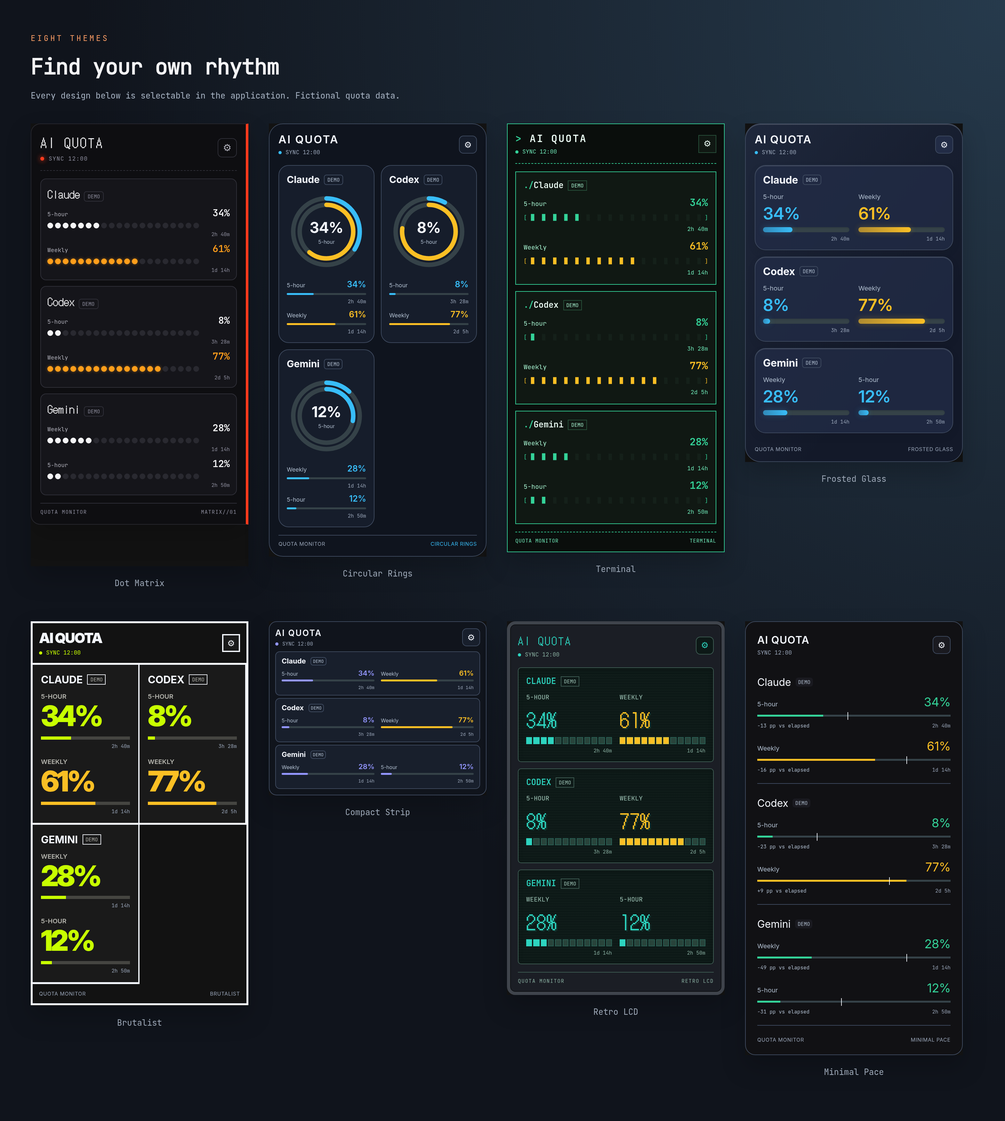
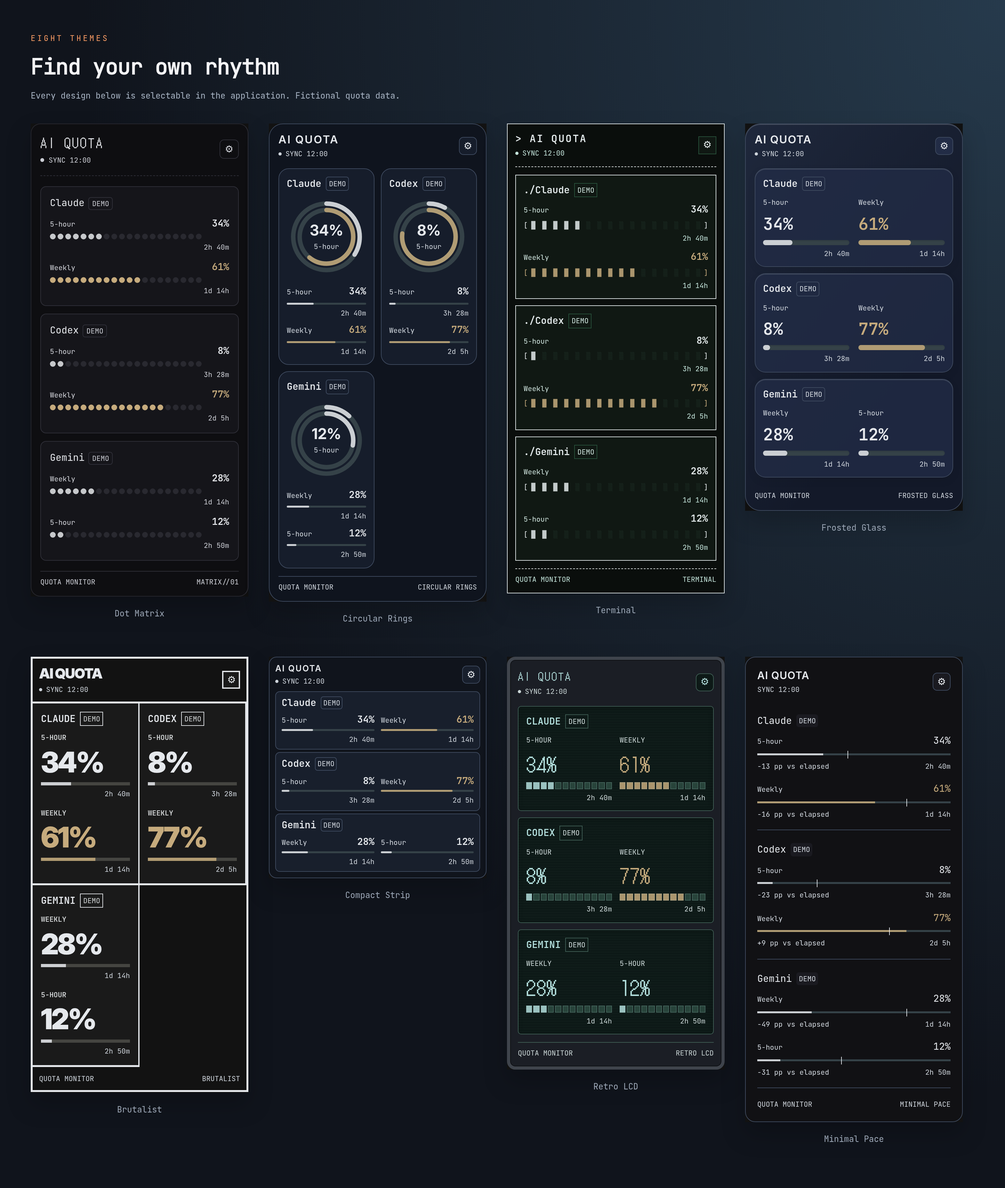
feat(theme): add calm color mode and accent edge setting
Calm is the new default: usage stays neutral below 50% and turns
amber, then red, as it fills. The accent edge is off by default and
can follow the snapped side. Scaling now changes the root font size
instead of CSS zoom, and the smallest text is 11px.

diff --git a/app/src/main.js b/app/src/main.js
@@ -13,7 +13,7 @@ import { listen } from '@tauri-apps/api/event';
 const isSample = new URLSearchParams(location.search).has('sample') || !('__TAURI_INTERNALS__' in window);
 const defaultTaskbar = { enabled: false, providers: ['claude', 'codex', 'gemini'], window: 'session', showBars: false, offsetX: 0, style: 'transparent', theme: 'auto' };
 const systemAppearance = matchMedia('(prefers-color-scheme: light)');
-let settings = { theme: 'dot-matrix', appearance: 'auto', taskbar: { ...defaultTaskbar }, palette: 'signal-orange', accent: null, background: null, widgetOpacity: 100, backgroundOpacity: 94, showExtraWindows: false, fitHeight: true, scale: 100, position: 'Top right' };
+let settings = { theme: 'dot-matrix', appearance: 'auto', colorMode: 'calm', accentEdge: 'off', taskbar: { ...defaultTaskbar }, palette: 'signal-orange', accent: null, background: null, widgetOpacity: 100, backgroundOpacity: 100, showExtraWindows: false, fitHeight: true, scale: 100, position: 'Top right' };
 try { settings.showExtraWindows = localStorage.getItem('showExtraWindows') === 'true'; } catch {}
 let currentSnapshot = null;
 let currentNoData = false;
@@ -24,12 +24,24 @@ document.querySelector('#app').innerHTML = `
     <header class="header" data-tauri-drag-region><div class="title-block"><div class="app-title">AI QUOTA</div><div class="sync-line"><i class="beacon"></i><span id="updated">WAITING FOR DATA</span></div></div><button class="gear" id="gear" aria-label="Settings">⚙</button></header>
     <div class="provider-list" id="providers"></div>
     <footer class="footer"><span>QUOTA MONITOR</span><span>MATRIX//01</span></footer>
-    <section class="settings" id="settings" hidden><header><strong>DISPLAY SETTINGS</strong><button id="close-settings" aria-label="Close">×</button></header><fieldset class="theme-section"><legend>Theme</legend><div class="theme-picker" id="theme-picker"></div></fieldset><label>Appearance<select id="appearance"><option value="auto">Auto</option><option value="light">Light</option><option value="dark">Dark</option></select></label><label>Palette<select id="palette"></select></label><label>Accent color<input id="accent" type="color"></label><label>Background color<input id="background" type="color"></label><label>Widget opacity <output id="widget-out"></output><input id="widget-opacity" type="range" min="20" max="100"></label><label>Background opacity <output id="background-out"></output><input id="background-opacity" type="range" min="0" max="100"></label><label>Scale <output id="scale-out"></output><input id="scale" type="range" min="50" max="300" step="1"></label><div class="scale-presets">${[['Small',75],['Normal',100],['Large',150],['Huge',200]].map(([label,value])=>`<button data-scale="${value}">${label}</button>`).join('')}</div><label>Position<select id="position"><option>Top right</option><option>Bottom right</option><option>Top left</option><option>Bottom left</option><option>Free</option></select></label><label class="toggle-setting">Fit height to content<input id="fit-height" type="checkbox"></label><label class="toggle-setting">Show extra windows<input id="show-extra-windows" type="checkbox"></label><label class="toggle-setting">Start at login<input id="start-at-login" type="checkbox" disabled></label><p id="autostart-status" class="setting-note" role="status" hidden></p><section id="linux-settings" hidden><fieldset class="desktop-settings" id="desktop-layer" hidden><legend>Desktop layer</legend><label>Layer<select id="linux-layer"><option value="top">Above windows</option><option value="bottom">On desktop</option></select></label><label>Margin <output id="linux-margin-out"></output><input id="linux-margin" type="range" min="0" max="64" step="1"></label><label>Monitor<select id="linux-monitor"><option value="">Auto</option></select></label></fieldset><p id="desktop-layer-unavailable" class="setting-note" hidden>Desktop layer controls require layer-shell support. Use your desktop's panel integration for a fixed position.</p></section><fieldset class="taskbar-settings" id="taskbar-settings"><legend>Taskbar strip</legend><label class="toggle-setting">Enable taskbar strip<input id="taskbar-enabled" type="checkbox"></label><div class="taskbar-providers"><label class="toggle-setting">Claude<input type="checkbox" data-taskbar-provider="claude"></label><label class="toggle-setting">Codex<input type="checkbox" data-taskbar-provider="codex"></label><label class="toggle-setting">Gemini<input type="checkbox" data-taskbar-provider="gemini"></label><label class="toggle-setting">Copilot<input type="checkbox" data-taskbar-provider="copilot"></label></div><label>Style<select id="taskbar-style"><option value="transparent">Transparent</option><option value="chip">Chip</option></select></label><label>Theme<select id="taskbar-theme"><option value="auto">Auto</option><option value="light">Light</option><option value="dark">Dark</option></select></label><label>Quota window<select id="taskbar-window"><option value="session">Session</option><option value="weekly">Weekly</option><option value="both">Both</option></select></label><label class="toggle-setting">Show mini bars<input id="taskbar-bars" type="checkbox"></label></fieldset></section>
+    <section class="settings" id="settings" hidden><header><strong>DISPLAY SETTINGS</strong><button id="close-settings" aria-label="Close">×</button></header><fieldset class="theme-section"><legend>Theme</legend><div class="theme-picker" id="theme-picker"></div></fieldset><fieldset class="look-section"><legend>Look</legend><label>Color mode<select id="color-mode"><option value="calm">Calm</option><option value="vivid">Vivid</option></select></label><label>Accent edge<select id="accent-edge"><option value="off">Off</option><option value="auto">Auto</option><option value="left">Left</option><option value="right">Right</option></select></label></fieldset><label>Appearance<select id="appearance"><option value="auto">Auto</option><option value="light">Light</option><option value="dark">Dark</option></select></label><label>Palette<select id="palette"></select></label><label>Accent color<input id="accent" type="color"></label><label>Background color<input id="background" type="color"></label><label>Widget opacity <output id="widget-out"></output><input id="widget-opacity" type="range" min="20" max="100"></label><label>Background opacity <output id="background-out"></output><input id="background-opacity" type="range" min="0" max="100"></label><label>Scale <output id="scale-out"></output><input id="scale" type="range" min="50" max="300" step="1"></label><div class="scale-presets">${[['Small',75],['Normal',100],['Large',150],['Huge',200]].map(([label,value])=>`<button data-scale="${value}">${label}</button>`).join('')}</div><label>Position<select id="position"><option>Top right</option><option>Bottom right</option><option>Top left</option><option>Bottom left</option><option>Free</option></select></label><label class="toggle-setting">Fit height to content<input id="fit-height" type="checkbox"></label><label class="toggle-setting">Show extra windows<input id="show-extra-windows" type="checkbox"></label><label class="toggle-setting">Start at login<input id="start-at-login" type="checkbox" disabled></label><p id="autostart-status" class="setting-note" role="status" hidden></p><section id="linux-settings" hidden><fieldset class="desktop-settings" id="desktop-layer" hidden><legend>Desktop layer</legend><label>Layer<select id="linux-layer"><option value="top">Above windows</option><option value="bottom">On desktop</option></select></label><label>Margin <output id="linux-margin-out"></output><input id="linux-margin" type="range" min="0" max="64" step="1"></label><label>Monitor<select id="linux-monitor"><option value="">Auto</option></select></label></fieldset><p id="desktop-layer-unavailable" class="setting-note" hidden>Desktop layer controls require layer-shell support. Use your desktop's panel integration for a fixed position.</p></section><fieldset class="taskbar-settings" id="taskbar-settings"><legend>Taskbar strip</legend><label class="toggle-setting">Enable taskbar strip<input id="taskbar-enabled" type="checkbox"></label><div class="taskbar-providers"><label class="toggle-setting">Claude<input type="checkbox" data-taskbar-provider="claude"></label><label class="toggle-setting">Codex<input type="checkbox" data-taskbar-provider="codex"></label><label class="toggle-setting">Gemini<input type="checkbox" data-taskbar-provider="gemini"></label><label class="toggle-setting">Copilot<input type="checkbox" data-taskbar-provider="copilot"></label></div><label>Style<select id="taskbar-style"><option value="transparent">Transparent</option><option value="chip">Chip</option></select></label><label>Theme<select id="taskbar-theme"><option value="auto">Auto</option><option value="light">Light</option><option value="dark">Dark</option></select></label><label>Quota window<select id="taskbar-window"><option value="session">Session</option><option value="weekly">Weekly</option><option value="both">Both</option></select></label><label class="toggle-setting">Show mini bars<input id="taskbar-bars" type="checkbox"></label></fieldset></section>
     <nav class="context-menu" id="context-menu" hidden><button id="refresh">Refresh now</button><button id="menu-settings">Settings</button></nav>
     <div class="toast" id="toast" hidden></div>
   </main>`;
 
 const $ = (selector) => document.querySelector(selector);
+// Palette files use opaque hex colors. Correct text against its actual surface.
+const rgb = hex => hex.replace('#', '').match(/../g).slice(0, 3).map(n => parseInt(n, 16));
+function mix(a, b, weight) { return '#' + rgb(a).map((v, i) => Math.round(v * weight + rgb(b)[i] * (1 - weight)).toString(16).padStart(2, '0')).join(''); }
+function luminance(hex) { return rgb(hex).map(v => { v /= 255; return v <= .04045 ? v / 12.92 : ((v + .055) / 1.055) ** 2.4; }).reduce((sum, v, i) => sum + v * [.2126, .7152, .0722][i], 0); }
+function readable(color, background) {
+  const bg = luminance(background), target = bg > .179 ? '#000000' : '#ffffff';
+  for (let i = 0; i <= 100; i++) {
+    const candidate = mix(color, target, 1 - i / 100), value = luminance(candidate);
+    if ((Math.max(value, bg) + .05) / (Math.min(value, bg) + .05) >= 5) return candidate;
+  }
+  return target;
+}
 function applySettings() {
   if (!theme) return;
   const selected = theme.palettes[settings.palette] || Object.values(theme.palettes)[0];
@@ -39,10 +51,35 @@ function applySettings() {
   if (settings.accent) document.documentElement.style.setProperty('--accent', settings.accent);
   if (settings.background) document.documentElement.style.setProperty('--bgWidget', settings.background);
   document.documentElement.dataset.mode = palette.mode;
+  settings.colorMode = ['calm', 'vivid'].includes(settings.colorMode) ? settings.colorMode : 'calm';
+  settings.accentEdge = ['off', 'auto', 'left', 'right'].includes(settings.accentEdge) ? settings.accentEdge : 'off';
+  document.documentElement.dataset.colorMode = settings.colorMode;
+  document.documentElement.dataset.accentEdge = settings.accentEdge === 'auto'
+    ? (settings.position.endsWith('left') ? 'left' : settings.position.endsWith('right') ? 'right' : 'off') : settings.accentEdge;
+  const card = palette.bgCard, background = settings.background || palette.bgWidget;
+  const neutral = mode === 'light' ? '#292d32' : '#e0e3e7';
+  const foreground = settings.colorMode === 'calm' ? mix(palette.textPrimary, neutral, .25) : palette.textPrimary;
+  const primary = readable(foreground, card);
+  const calmText = color => settings.colorMode === 'calm' ? mix(color, neutral, .25) : color;
+  for (const [key, value] of Object.entries({
+    textPrimary: primary,
+    textSecondary: readable(calmText(palette.textSecondary), card),
+    textMuted: readable(calmText(palette.textMuted), card),
+    chromeText: readable(foreground, background),
+    chromeSecondary: readable(calmText(palette.textMuted), background),
+  })) document.documentElement.style.setProperty(`--${key}`, value);
+  if (settings.colorMode === 'calm') {
+    document.documentElement.style.setProperty('--severityNormal', primary);
+    document.documentElement.style.setProperty('--severityWarning', readable(mode === 'light' ? '#805c29' : '#c6ab7d', card));
+    document.documentElement.style.setProperty('--severityDanger', readable(mode === 'light' ? '#99494b' : '#d29898', card));
+  }
+  $('#color-mode').value = settings.colorMode;
+  $('#accent-edge').value = settings.accentEdge;
+  if (currentSnapshot) draw(currentSnapshot, currentNoData);
   document.documentElement.style.setProperty('--widget-opacity', settings.widgetOpacity / 100);
   document.documentElement.style.setProperty('--background-opacity', settings.backgroundOpacity / 100);
   document.documentElement.style.setProperty('--ui-scale', settings.scale / 100);
-  document.querySelector('#app').style.zoom = String(settings.scale / 100);
+  document.documentElement.style.fontSize = `${16 * settings.scale / 100}px`;
   document.documentElement.classList.toggle('fit-height', Boolean(settings.fitHeight)); lastFitHeight = 0;
   settings.taskbar = { ...defaultTaskbar, ...settings.taskbar };
   if (desktopInfo?.platform === 'linux') {
@@ -94,7 +131,7 @@ function currentSample() {
   const now = Date.now();
   return { ...sample, generated_at: new Date(now).toISOString(), providers: sample.providers.map(provider => ({ ...provider, windows: (provider.windows || []).map(window => ({ ...window, resets_at: Number.isFinite(window.resets_in_minutes) ? new Date(now + window.resets_in_minutes * 60000).toISOString() : null })) })) };
 }
-async function persist() { if (!isSample) try { localStorage.setItem('widgetTheme', settings.theme); } catch {} if (!isSample) try { await invoke('save_settings', { settings }); } catch (error) { showToast(String(error)); } }
+async function persist() { if (!isSample) try { localStorage.setItem('widgetTheme', settings.theme); localStorage.setItem('widgetLook', JSON.stringify({ colorMode: settings.colorMode, accentEdge: settings.accentEdge })); } catch {} if (!isSample) try { await invoke('save_settings', { settings }); } catch (error) { showToast(String(error)); } }
 function showToast(message) { const el = $('#toast'); el.textContent = message; el.hidden = false; setTimeout(() => { el.hidden = true; }, 3200); }
 
 const previews = { 'dot-matrix': '••••••', 'circular-rings': '◉ ◎', terminal: '[▓▓░░]', 'frosted-glass': '▰ ▰', brutalist: '84%', 'compact-strip': '━ ━ ━', 'retro-lcd': '▮▮▮▯▯', 'minimal-pace': '──┊──' };
@@ -125,6 +162,7 @@ async function activateTheme(id) {
   requestFit();
 }
 systemAppearance.addEventListener('change', () => { if (settings.appearance === 'auto') applySettings(); });
+for (const [id, key] of [['color-mode', 'colorMode'], ['accent-edge', 'accentEdge']]) $(`#${id}`).onchange = async event => { settings[key] = event.target.value; applySettings(); await persist(); };
 $('#appearance').onchange = async event => { settings.appearance = event.target.value; applySettings(); await persist(); };
 for (const key of ['style', 'theme']) $(`#taskbar-${key}`).onchange = async event => { settings.taskbar[key] = event.target.value; await persist(); };
 $('#taskbar-enabled').onchange = async event => { settings.taskbar.enabled = event.target.checked; await persist(); };
@@ -184,7 +222,7 @@ $('#show-extra-windows').onchange = async (event) => { settings.showExtraWindows
 $('#scale').oninput = async event => { settings.scale = Number(event.target.value); applySettings(); requestFit(); await persist(); };
 document.querySelectorAll('[data-scale]').forEach(button => button.onclick = async () => { settings.scale = Number(button.dataset.scale); applySettings(); requestFit(); await persist(); });
 $('#fit-height').onchange = async event => { settings.fitHeight = event.target.checked; applySettings(); if (settings.fitHeight) requestFit(); await persist(); };
-$('#position').onchange = async event => { settings.position = event.target.value; if (!isSample) try { await invoke('snap_window', { corner: settings.position }); } catch (error) { showToast(String(error)); } await persist(); };
+$('#position').onchange = async event => { settings.position = event.target.value; applySettings(); if (!isSample) try { await invoke('snap_window', { corner: settings.position }); } catch (error) { showToast(String(error)); } await persist(); };
 $('#widget').addEventListener('contextmenu', event => { event.preventDefault(); $('#context-menu').hidden = false; $('#context-menu').style.left = `${event.clientX}px`; $('#context-menu').style.top = `${event.clientY}px`; });
 document.addEventListener('click', event => { if (!event.target.closest('#context-menu')) $('#context-menu').hidden = true; });
 $('#refresh').onclick = async () => { if (isSample) return draw(currentSample()); try { await invoke('refresh_now'); } catch (error) { showToast(String(error)); } };
@@ -199,7 +237,7 @@ else {
     settings = { ...settings, ...(await invoke('load_settings')) };
     // Older native settings structs discard unknown fields; keep the theme in
     // the webview store until the native schema includes it.
-    try { settings.theme = localStorage.getItem('widgetTheme') || settings.theme; } catch {}
+    try { settings.theme = localStorage.getItem('widgetTheme') || settings.theme; Object.assign(settings, JSON.parse(localStorage.getItem('widgetLook') || '{}')); } catch {}
     const overrides = { accent: settings.accent, background: settings.background };
     await activateTheme(settings.theme); Object.assign(settings, overrides); applySettings();
     await loadDesktopSettings();

diff --git a/app/src/themes/shared/chrome.css b/app/src/themes/shared/chrome.css
@@ -3,20 +3,20 @@
 @font-face { font-family: JetBrainsMono; src: url('../../fonts/jetbrains-mono-latin-400-normal.woff2') format('woff2'); font-weight: 400; font-display: swap; }
 
 @font-face { font-family: JetBrainsMono; src: url('../../fonts/jetbrains-mono-latin-600-normal.woff2') format('woff2'); font-weight: 600; font-display: swap; }
-.settings { position: absolute; z-index: 5; inset: 8px; display: flex; flex-direction: column; gap: 13px; padding: 14px; overflow: auto; background: var(--bgWidget); border: 1px solid var(--border); border-radius: 10px; box-shadow: 0 12px 30px #0008; }
+.settings { position: absolute; z-index: 5; inset: 0.5rem; display: flex; flex-direction: column; gap: 0.8125rem; padding: 0.875rem; overflow: auto; background: var(--bgWidget); border: 0.0625rem solid var(--border); border-radius: 0.625rem; box-shadow: 0 0.75rem 1.875rem #0008; }
 .settings[hidden] { display: none; }
-.settings header { display: flex; justify-content: space-between; font: 13px DotGothic16, monospace; }
-.settings header button { color: var(--textPrimary); background: none; border: 0; font-size: 20px; }
-.settings label { display: grid; grid-template-columns: 1fr auto; gap: 8px; color: var(--textSecondary); font-size: 10px; }
-.settings select { grid-column: 1 / -1; width: 100%; padding: 8px; color: var(--textPrimary); background: var(--bgCard); border: 1px solid var(--border); }
-.settings input[type=color] { width: 42px; height: 24px; border: 0; background: transparent; }
+.settings header { display: flex; justify-content: space-between; font: 0.8125rem DotGothic16, monospace; }
+.settings header button { color: var(--textPrimary); background: none; border: 0; font-size: 1.25rem; }
+.settings label { display: grid; grid-template-columns: 1fr auto; gap: 0.5rem; color: var(--textSecondary); font-size: 0.625rem; }
+.settings select { grid-column: 1 / -1; width: 100%; padding: 0.5rem; color: var(--textPrimary); background: var(--bgCard); border: 0.0625rem solid var(--border); }
+.settings input[type=color] { width: 2.625rem; height: 1.5rem; border: 0; background: transparent; }
 .settings input[type=range] { grid-column: 1 / -1; width: 100%; accent-color: var(--accent); }
 .settings output { color: var(--textPrimary); }
-.context-menu { position: fixed; z-index: 8; display: grid; min-width: 130px; padding: 4px; background: var(--bgCard); border: 1px solid var(--border); border-radius: 7px; box-shadow: 0 6px 18px #0008; }
+.context-menu { position: fixed; z-index: 8; display: grid; min-width: 8.125rem; padding: 0.25rem; background: var(--bgCard); border: 0.0625rem solid var(--border); border-radius: 0.4375rem; box-shadow: 0 0.375rem 1.125rem #0008; }
 .context-menu[hidden] { display: none; }
-.context-menu button { padding: 8px; color: var(--textPrimary); text-align: left; background: transparent; border: 0; cursor: pointer; }
+.context-menu button { padding: 0.5rem; color: var(--textPrimary); text-align: left; background: transparent; border: 0; cursor: pointer; }
 .context-menu button:hover { background: color-mix(in srgb, var(--accent) 20%, transparent); }
-.toast { position: absolute; right: 12px; bottom: 30px; left: 12px; padding: 8px; color: var(--textPrimary); background: var(--bgCard); border: 1px solid var(--border); border-radius: 6px; font-size: 9px; }
+.toast { position: absolute; right: 0.75rem; bottom: 1.875rem; left: 0.75rem; padding: 0.5rem; color: var(--textPrimary); background: var(--bgCard); border: 0.0625rem solid var(--border); border-radius: 0.375rem; font-size: 0.5625rem; }
 .toast[hidden] { display: none; }
 
 
@@ -24,15 +24,15 @@
 .settings input[type=checkbox] { accent-color: var(--accent); }
 
 
-.settings .scale-presets { display: flex; gap: 5px; }
-.scale-presets button { flex: 1; padding: 6px 2px; color: var(--textSecondary); background: var(--bgCard); border: 1px solid var(--border); border-radius: 5px; font: 8px JetBrainsMono, monospace; cursor: pointer; }
+.settings .scale-presets { display: flex; gap: 0.3125rem; }
+.scale-presets button { flex: 1; padding: 0.375rem 0.125rem; color: var(--textSecondary); background: var(--bgCard); border: 0.0625rem solid var(--border); border-radius: 0.3125rem; font: 0.5rem JetBrainsMono, monospace; cursor: pointer; }
 
 
-.taskbar-settings { margin: 12px 0 0; padding: 10px; border: 1px solid var(--border); min-width: 0; }
+.taskbar-settings { margin: 0.75rem 0 0; padding: 0.625rem; border: 0.0625rem solid var(--border); min-width: 0; }
 
-.taskbar-settings legend { padding: 0 5px; font-size: 11px; }
+.taskbar-settings legend { padding: 0 0.3125rem; font-size: 0.6875rem; }
 
-.taskbar-providers { display: grid; grid-template-columns: 1fr 1fr; gap: 0 10px; }
+.taskbar-providers { display: grid; grid-template-columns: 1fr 1fr; gap: 0 0.625rem; }
 
 
 /* Native controls and every scrollable surface follow the resolved appearance. */
@@ -40,29 +40,29 @@
 
 :root[data-mode="dark"] { color-scheme: dark; }
 
-::-webkit-scrollbar { width: 6px; height: 6px; }
+::-webkit-scrollbar { width: 0.375rem; height: 0.375rem; }
 
 ::-webkit-scrollbar-track { background: var(--bgCard); }
 
-::-webkit-scrollbar-thumb { background: var(--border); border-radius: 4px; }
+::-webkit-scrollbar-thumb { background: var(--border); border-radius: 0.25rem; }
 
 :root[data-mode="light"] .dot-bar i.on { box-shadow: none; }
 
-:root[data-mode="light"] .settings, :root[data-mode="light"] .context-menu { box-shadow: 0 6px 18px #0002; }
+:root[data-mode="light"] .settings, :root[data-mode="light"] .context-menu { box-shadow: 0 0.375rem 1.125rem #0002; }
 
 
-.desktop-settings { display: grid; gap: 12px; min-width: 0; margin: 0; padding: 10px; border: 1px solid var(--border); border-radius: 6px; }
+.desktop-settings { display: grid; gap: 0.75rem; min-width: 0; margin: 0; padding: 0.625rem; border: 0.0625rem solid var(--border); border-radius: 0.375rem; }
 
-.desktop-settings legend { padding: 0 5px; color: var(--textPrimary); font-size: 11px; }
+.desktop-settings legend { padding: 0 0.3125rem; color: var(--textPrimary); font-size: 0.6875rem; }
 
-.setting-note { margin: 0; color: var(--textSecondary); font-size: 10px; line-height: 1.6; }
+.setting-note { margin: 0; color: var(--textSecondary); font-size: 0.625rem; line-height: 1.6; }
 
 .settings [hidden] { display: none !important; }
 
 .settings input:disabled { opacity: .5; cursor: not-allowed; }
-.theme-picker {display:grid;grid-template-columns:repeat(2,minmax(0,1fr));gap:6px;min-width:0}.theme-picker button {min-width:0;padding:7px 4px;background:var(--bgCard);color:var(--textPrimary);border:1px solid var(--border);border-radius:5px;font:9px JetBrainsMono,monospace;cursor:pointer}.theme-picker button[aria-pressed=true] {outline:2px solid var(--accent);outline-offset:-2px}.theme-preview {display:block;font-size:19px;line-height:30px;color:var(--accent);letter-spacing:2px}.theme-section {border:0;margin:0;padding:0;min-width:0}.theme-section legend {font-size:11px;margin-bottom:8px}.settings>* {flex-shrink:0}.settings header strong {font:600 11px JetBrainsMono,monospace}.settings .theme-picker button:focus-visible {outline:2px solid var(--accent)}
+.theme-picker {display:grid;grid-template-columns:repeat(2,minmax(0,1fr));gap:0.375rem;min-width:0}.theme-picker button {min-width:0;padding:0.4375rem 0.25rem;background:var(--bgCard);color:var(--textPrimary);border:0.0625rem solid var(--border);border-radius:0.3125rem;font:0.5625rem JetBrainsMono,monospace;cursor:pointer}.theme-picker button[aria-pressed=true] {outline:0.125rem solid var(--accent);outline-offset:-0.125rem}.theme-preview {display:block;font-size:1.1875rem;line-height:1.875rem;color:var(--accent);letter-spacing:0.125rem}.theme-section {border:0;margin:0;padding:0;min-width:0}.theme-section legend {font-size:0.6875rem;margin-bottom:0.5rem}.settings>* {flex-shrink:0}.settings header strong {font:600 0.6875rem JetBrainsMono,monospace}.settings .theme-picker button:focus-visible {outline:0.125rem solid var(--accent)}
 
 @font-face {font-family:Inter;src:url('../../fonts/inter-variable.ttf') format('truetype');font-weight:100 900;font-display:swap}
 /* A short strip must expand while its scrollable settings are open. */
-.fit-height .widget:has(.settings:not([hidden])){min-height:540px}
-.theme-picker [data-theme=circular-rings] .theme-preview{color:#38bdf8}.theme-picker [data-theme=terminal] .theme-preview{color:#34d399;font-size:14px}.theme-picker [data-theme=frosted-glass] .theme-preview{color:#38bdf8;text-shadow:0 0 8px #38bdf860}.theme-picker [data-theme=brutalist] .theme-preview{font-family:Inter,sans-serif;font-weight:900;color:#9abf00}.theme-picker [data-theme=compact-strip] .theme-preview{color:#9396ff;font-size:14px}.theme-picker [data-theme=retro-lcd] .theme-preview{color:#1aa592;font-family:DotGothic16,monospace}.theme-picker [data-theme=minimal-pace] .theme-preview{color:#13946f;font-weight:400}
+.fit-height .widget:has(.settings:not([hidden])){min-height:33.75rem}
+.theme-picker [data-theme=circular-rings] .theme-preview{color:#38bdf8}.theme-picker [data-theme=terminal] .theme-preview{color:#34d399;font-size:0.875rem}.theme-picker [data-theme=frosted-glass] .theme-preview{color:#38bdf8;text-shadow:0 0 0.5rem #38bdf860}.theme-picker [data-theme=brutalist] .theme-preview{font-family:Inter,sans-serif;font-weight:900;color:#9abf00}.theme-picker [data-theme=compact-strip] .theme-preview{color:#9396ff;font-size:0.875rem}.theme-picker [data-theme=retro-lcd] .theme-preview{color:#1aa592;font-family:DotGothic16,monospace}.theme-picker [data-theme=minimal-pace] .theme-preview{color:#13946f;font-weight:400}

diff --git a/app/src/themes/shared/readability.css b/app/src/themes/shared/readability.css
@@ -1,0 +1,80 @@
+/* Shared after theme CSS: readable labels without flattening theme layouts. */
+:root .widget .sync-line, :root .widget .plan, :root .widget .status-badge,
+:root .widget .window-top, :root .widget .window-bottom, :root .widget .reset,
+:root .widget .pace, :root .widget .balance-row, :root .widget .empty-window,
+:root .widget .footer, :root .widget .no-data small, :root .widget .ring-center small,
+:root .widget .compact-line, :root .widget .compact-api, :root .widget .xs-name,
+:root .widget .xs-content small, :root .widget .settings label,
+:root .widget .settings legend, :root .widget .settings button,
+:root .widget .settings header strong, :root .widget .setting-note, :root .widget .toast {
+  font-family: JetBrainsMono, monospace;
+  font-size: 11px;
+  letter-spacing: 0;
+  line-height: 1.5;
+}
+:root .widget .provider-heading h2 {font-family:JetBrainsMono,monospace;font-size:15px;white-space:normal;overflow-wrap:anywhere}
+:root .widget .window-top b, :root .widget .ring-center strong,
+:root .widget .compact-line b, :root .widget .xs-content b {font-size:max(15px,1em)}
+:root[data-theme=brutalist] .window-top b {font:900 clamp(34px,13cqw,72px)/1.15 Inter,sans-serif;letter-spacing:-2px}
+:root[data-theme=frosted-glass] .window-top b {font-size:26px}
+:root[data-theme=retro-lcd] .window-top b {font-size:30px}
+:root[data-theme=circular-rings] .ring-center strong {font-size:23px}
+:root .widget .settings select, :root .widget .context-menu button {font:11px/1.5 JetBrainsMono,monospace}
+:root .widget .header, :root .widget .app-title {color:var(--chromeText)}
+:root .widget .sync-line, :root .widget .footer {color:var(--chromeSecondary)}
+:root .widget .settings {color:var(--chromeText)}
+:root .widget .settings label, :root .widget .settings legend, :root .widget .setting-note {color:var(--chromeSecondary)}
+:root[data-theme=retro-lcd] .widget .settings {background:var(--bgWidget)}
+:root .look-section {display:grid;gap:12px;min-width:0;margin:0;padding:10px;border:1px solid var(--border);border-radius:6px}
+/* The decorative edge is independent of structural borders (e.g. Brutalist). */
+:root[data-theme=dot-matrix] .widget {border-right:1px solid var(--border);border-radius:15px}
+:root[data-accent-edge=left] .widget::after, :root[data-accent-edge=right] .widget::after {
+  content:'';position:absolute;z-index:4;pointer-events:none;top:12px;bottom:12px;width:2px;
+  background:color-mix(in srgb,var(--accent) 25%,var(--chromeText));opacity:.55;border-radius:2px;
+}
+:root[data-accent-edge=left] .widget::after {left:0}
+:root[data-accent-edge=right] .widget::after {right:0}
+/* Calm keeps each design's geometry and surface colors, with threshold-only ink. */
+:root[data-color-mode=calm] .widget {--accent:var(--textPrimary)}
+:root[data-color-mode=calm] .beacon {background:var(--chromeSecondary);box-shadow:none}
+:root[data-color-mode=calm] .dot-bar i.on {box-shadow:none}
+:root[data-color-mode=calm] .dot-bar i.on[data-severity=normal],
+:root[data-color-mode=calm] .meter>i, :root[data-color-mode=calm] .segments i.on {opacity:.85}
+:root[data-color-mode=calm] .meter>i {background:var(--level);box-shadow:none}
+:root[data-color-mode=calm] .ring-value {opacity:.85}
+:root[data-color-mode=calm] .window-top b {text-shadow:none}
+:root[data-color-mode=calm] .theme-preview {color:var(--textPrimary);text-shadow:none}
+:root[data-color-mode=calm] .provider-heading h2::before, :root[data-color-mode=calm] .app-title::before {color:inherit}
+:root[data-color-mode=calm] .footer span:last-child {color:inherit}
+:root .provider-heading {flex-wrap:wrap}
+:root .window-top {gap:5px}
+:root .dot-bar i {flex:1;min-width:0;max-width:var(--dot)}
+:root .xs-content b, :root .xs-content small {flex:none}
+:root .xs-content .dot-bar {min-width:0;gap:1px}
+:root .compact-line {grid-template-columns:22px minmax(0,1fr) 38px}
+@container (max-width:219px) {
+  :root .widget .xs-content {flex-wrap:wrap;min-height:24px}
+  :root .widget .xs-content small {font-size:15px}
+  :root[data-theme=compact-strip] .windows, :root[data-theme=brutalist] .windows {grid-template-columns:1fr}
+  :root[data-theme=circular-rings] .provider-card {display:block}
+  :root[data-theme=circular-rings] .ring-display {width:100px;margin:0 auto 8px}
+  :root[data-theme=circular-rings] .ring-center small {display:block}
+  :root .widget .footer {flex-wrap:wrap}
+  :root .widget .scale-presets {flex-wrap:wrap}
+  :root .widget .scale-presets button {flex-basis:40%}
+}
+:root .widget .gear {font:15px/1 JetBrainsMono,monospace}
+:root .segments.terminal {font-size:11px}
+:root[data-theme=circular-rings] .provider-list {grid-template-columns:repeat(auto-fit,minmax(min(100%,150px),1fr))}
+:root[data-color-mode=calm] [data-severity=warning] {color:var(--severityWarning)}
+:root[data-color-mode=calm] [data-severity=danger] {color:var(--severityDanger)}
+@container (min-width:220px) and (max-width:320px) {
+  :root[data-theme=dot-matrix] .provider-card:not(.api-balance) {grid-template-columns:65px minmax(0,1fr)}
+  :root[data-theme=dot-matrix] .provider-heading h2 {font-size:15px;overflow-wrap:normal}
+}
+:root[data-theme=brutalist] .provider-list {grid-template-columns:repeat(auto-fit,minmax(min(100%,155px),1fr))}
+@container (max-width:219px) {
+  :root[data-theme=retro-lcd] .window-top {flex-wrap:wrap}
+  :root[data-theme=retro-lcd] .window-top>span {flex-basis:100%}
+}
+:root .widget .balance-row b, :root .widget .compact-api {font-size:15px}

diff --git a/app/src/themes/dot-matrix/render.js b/app/src/themes/dot-matrix/render.js
@@ -2,7 +2,10 @@ const hiddenStates = new Set(['DISABLED', 'NOT_INSTALLED', 'NO_SUBSCRIPTION']);
 const abbreviations = { claude: 'CL', codex: 'CX', gemini: 'GM', copilot: 'CP', openrouter: 'OR', deepseek: 'DS', jetbrains: 'JB', 'jetbrains-ai': 'JB' };
 const providerNames = { claude: 'Claude', codex: 'Codex', gemini: 'Gemini', copilot: 'Copilot', openrouter: 'OpenRouter', deepseek: 'DeepSeek', jetbrains: 'JetBrains' };
 const escapeHtml = value => String(value ?? '').replace(/[&<>"']/g, c => ({ '&': '&amp;', '<': '&lt;', '>': '&gt;', '"': '&quot;', "'": '&#39;' })[c]);
-const severity = pct => pct > 80 ? 'danger' : pct >= 50 ? 'warning' : 'normal';
+const severity = pct => {
+  const calm = typeof document !== 'undefined' && document.documentElement.dataset.colorMode === 'calm';
+  return (calm ? pct >= 80 : pct > 80) ? 'danger' : (calm ? pct > 50 : pct >= 50) ? 'warning' : 'normal';
+};
 function countdown(value) {
   if (!value) return 'RESET UNKNOWN';
   const delta = new Date(value).getTime() - Date.now();
@@ -56,7 +59,7 @@ function providerCard(provider, showExtraWindows) {
   const compact = apiBalance
     ? `<div class="compact-api">${escapeHtml(abbreviation)} ${meters.filter(m => m.unit === 'USD').map(m => `$${typeof m.remaining === 'number' ? m.remaining.toFixed(2) : '—'}`).join(' ') || '—'}</div>`
     : `<div class="compact-content">${compactLine('5H', primary)}${compactLine('WK', weekly)}</div>`;
-  const xs = apiBalance ? '' : `<div class="xs-content"><span class="xs-name">${issue ? '! ' : ''}${escapeHtml(abbreviation)}</span>${dots(pctOf(primary), 8)}<b data-severity="${pctOf(primary) === null ? 'unknown' : severity(pctOf(primary))}">${pctOf(primary) === null ? '—' : `${Math.round(pctOf(primary))}%`}</b><small>${weekly && pctOf(weekly) !== null ? `${Math.round(pctOf(weekly))}%` : '—'}</small></div>`;
+  const xs = apiBalance ? '' : `<div class="xs-content"><span class="xs-name">${issue ? '! ' : ''}${escapeHtml(abbreviation)}</span>${dots(pctOf(primary), 8)}<b data-severity="${pctOf(primary) === null ? 'unknown' : severity(pctOf(primary))}">${pctOf(primary) === null ? '—' : `${Math.round(pctOf(primary))}%`}</b><small data-severity="${weekly && pctOf(weekly) !== null ? severity(pctOf(weekly)) : 'unknown'}">${weekly && pctOf(weekly) !== null ? `${Math.round(pctOf(weekly))}%` : '—'}</small></div>`;
   const details = apiBalance ? '' : windows.map(windowRow).join('') || '';
   const otherMeters = !apiBalance ? meters.map(m => `<div class="balance-row"><span>${escapeHtml(m.label)}</span><b>${m.remaining == null ? '—' : `${escapeHtml(m.remaining)} ${escapeHtml(m.unit || '')}`}</b></div>`).join('') : '';
   const providerName = providerNames[String(provider.id || '').toLowerCase()] || provider.label || provider.id;

diff --git a/app/src/themes/registry.js b/app/src/themes/registry.js
@@ -1,3 +1,4 @@
+import readability from './shared/readability.css?inline';
 // Vite emits separate renderer chunks. CSS is imported as text so the old
 // stylesheet can actually be removed, including when revisiting a cached theme.
 const renderers = import.meta.glob('./*/render.js');
@@ -7,5 +8,7 @@ export const themes = Object.values(manifests);
 export async function loadTheme(id) {
   if (!themes.some(theme => theme.id === id)) id = 'dot-matrix';
   const [renderer, css] = await Promise.all([renderers[`./${id}/render.js`](), styles[`./${id}/theme.css`]()]);
-  return { ...renderer, css, manifest: themes.find(theme => theme.id === id) };
+  // Keep authored pixel dimensions in 16px design units. rem makes scale a
+  // fresh layout/font rasterization, without zoom or a transformed surface.
+  return { ...renderer, css: (css + '\n' + readability).replace(/(-?(?:\d*\.)?\d+)px\b/g, (_, value) => `${Number(value) / 16}rem`), manifest: themes.find(theme => theme.id === id) };
 }

diff --git a/docs/tools/README.md b/docs/tools/README.md
@@ -16,4 +16,6 @@ Hero, size, palette, scale, state and settings scenes embed the **built applicat
 
 The script uses Chrome's `--no-sandbox` for restricted headless environments; only run it against these trusted local fixtures. It needs loopback socket access. In an environment that denies sockets, rerun with the appropriate local execution permission. It does not need internet access once dependencies are present. Browser profile and servers are cleaned up on completion. Inspect every PNG after changing UI or fixtures; native desktop acceptance and design review remain separate.
 
-Theme captures include `themes.png`, `themes-light.png`, and `themes/<id>-dark.png` / `-light.png`. Hero and social preview compose multiple real themes. `checks/<id>-dark.png` / `-light.png` put the 340/200 px × 3/1-provider combinations side by side (64 cases total). Additional state scenes exercise stale/auth/rate-limit and extra/unknown windows. `checks/results.json` records provider counts, horizontal overflow checks and the one-active-theme-style invariant. The same browser then exercises every theme selector, appearance, 50/300% scale and the extra-window toggle. Fit frames are measured after font loading.
+Theme captures include `themes.png`, `themes-light.png`, and `themes/<id>-dark.png` / `-light.png`. Hero and social preview compose multiple real themes. `checks/<id>-dark.png` / `-light.png` put the 340/200 px × 100/150% scale combinations side by side (64 cases total). Additional state scenes exercise stale/auth/rate-limit and extra/unknown windows. `checks/results.json` records provider counts, horizontal overflow, minimum visible text/number sizes, secondary text contrast and the one-active-theme-style invariant. The same browser then exercises every theme selector, appearance, 50/300% scale and the extra-window toggle, Color mode and all 12 Accent edge/position combinations. Fit frames are measured after font loading.
+
+All widget scenes use Calm with the accent edge off. `checks/vivid.png` compares Calm and Vivid. Readability checks require labels ≥11 CSS px and primary numbers ≥15 CSS px at 100% (scaled proportionally at 150%), with secondary text contrast ≥4.5:1. Contrast is calculated from computed text colors and composited background-color layers against the least favorable black/white desktop polarity; background images and compositor effects require visual review. `checks/` remains ignored.

diff --git a/docs/configuration.md b/docs/configuration.md
@@ -2,6 +2,8 @@
 
 Display settings and quota collection settings are separate. Change display settings using the gear button; do not edit files while the widget is saving them. The browser's `?sample` mode uses synthetic data and never saves native settings.
 
+New Look fields default to Calm/Off when missing. Until the native settings schema supports them, these two fields also persist in the local webview store; they are not portable by copying `settings.json` alone.
+
 ## Display settings
 
 `settings.json` lives in the operating system's config directory under `ai-quota-widget`: Linux `$XDG_CONFIG_HOME/ai-quota-widget` (normally `~/.config/ai-quota-widget`); Windows `%APPDATA%/ai-quota-widget`. Window geometry is saved separately in `window.json`. `QUOTACORE_HOME` does **not** relocate display settings.
@@ -9,11 +11,13 @@ Display settings and quota collection settings are separate. Change display sett
 | Field | Default | Meaning |
 | --- | --- | --- |
 | `appearance` | `auto` | `auto`, `light`, `dark`; auto follows OS color preference live. |
+| `colorMode` | `calm` | Neutral usage through 50%, soft amber above 50%, muted red from 80%; `vivid` restores theme colors. |
+| `accentEdge` | `off` | `off`, `auto`, `left`, `right`; Auto follows the selected corner, with no edge in Free placement. |
 | `palette` | `signal-orange` | `signal-orange`, `sakura-pink`, `nord`, `mono-paper`. |
 | `accent`, `background` | `null` | Optional CSS color overrides; choosing a palette clears these overrides. |
 | `widgetOpacity` | `100` | Opacity of the entire widget, including text; UI range 20–100. |
-| `backgroundOpacity` | `94` | Background opacity, 0–100; this does not enable compositor blur. |
-| `scale` | `100` | UI zoom, 50–300%; presets 75/100/150/200. Ctrl +/− changes by 10, Ctrl+0 restores 100. |
+| `backgroundOpacity` | `100` | Background opacity, 0–100; this does not enable compositor blur. |
+| `scale` | `100` | Rem-based text and layout scale, 50–300%; presets 75/100/150/200. Ctrl +/− changes by 10, Ctrl+0 restores 100. |
 | `fitHeight` | `true` | Resize to content height. Width still controls the responsive layout. |
 | `position` | `Top right` | Top/Bottom + left/right corners, or `Free` where supported. |
 | `showExtraWindows` | `false` | Reveal secondary/model windows that the source marks hidden. |

diff --git a/README.md b/README.md
@@ -67,11 +67,11 @@ Choose from eight built-in themes: Dot Matrix, Circular Rings, Terminal, Frosted
 
 ### Colors and sizing
 
-Dot Matrix includes Signal Orange, Sakura Pink, Nord and Mono Paper; the other themes include a palette matched to their design. Accent and background colors can be overridden. Separate widget and background opacity controls let you tune transparency while keeping text readable. These controls change opacity, not monitor brightness or compositor blur.
+Dot Matrix includes Signal Orange, Sakura Pink, Nord and Mono Paper; the other themes include a palette matched to their design. Calm is the default: neutral usage up to 50%, soft amber above 50%, and muted red from 80%. Choose Vivid in Settings → Look for the original colors. The accent edge starts off; Auto follows the selected left/right corner and disappears in Free placement, or you can choose a fixed side. Accent and background colors can be overridden. Separate widget and background opacity controls let you tune transparency while keeping text readable. These controls change opacity, not monitor brightness or compositor blur.
 
 ![Four palette variants of the real widget](docs/screenshots/palettes.png)
 
-Scale from 50% to 300% with presets or Ctrl +/− and Ctrl+0. Width controls layout independently from zoom. Fit height to content, choose a corner, or use supported free placement.
+Scale from 50% to 300% with presets or Ctrl +/− and Ctrl+0. Text and spacing scale through rem-based layout without CSS zoom. Fit height to content, choose a corner, or use supported free placement.
 
 ![Widget at 75, 100 and 150 percent scale](docs/screenshots/scale.png)
 ![XS, S, M and L responsive layouts](docs/screenshots/sizes.png)
